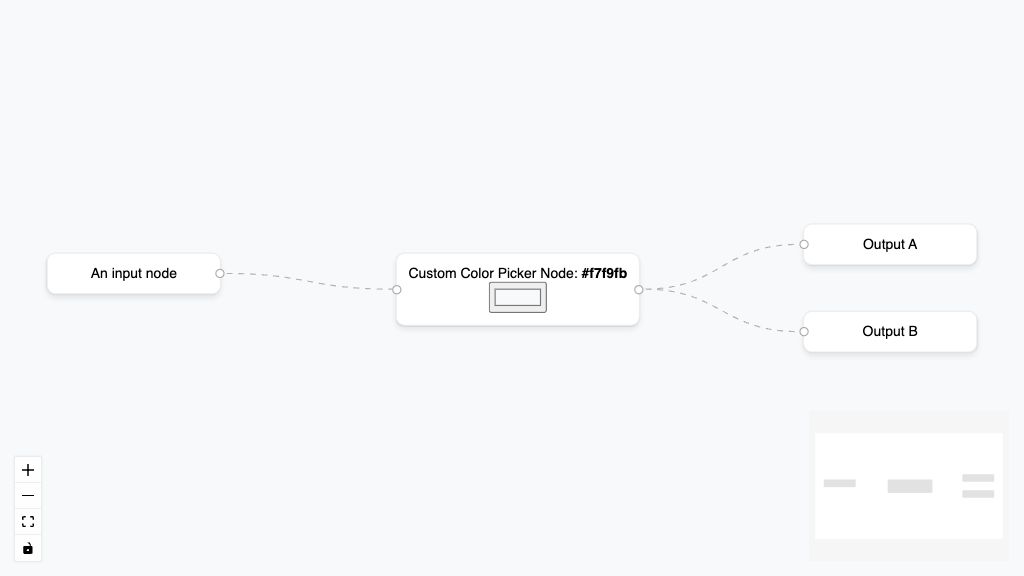
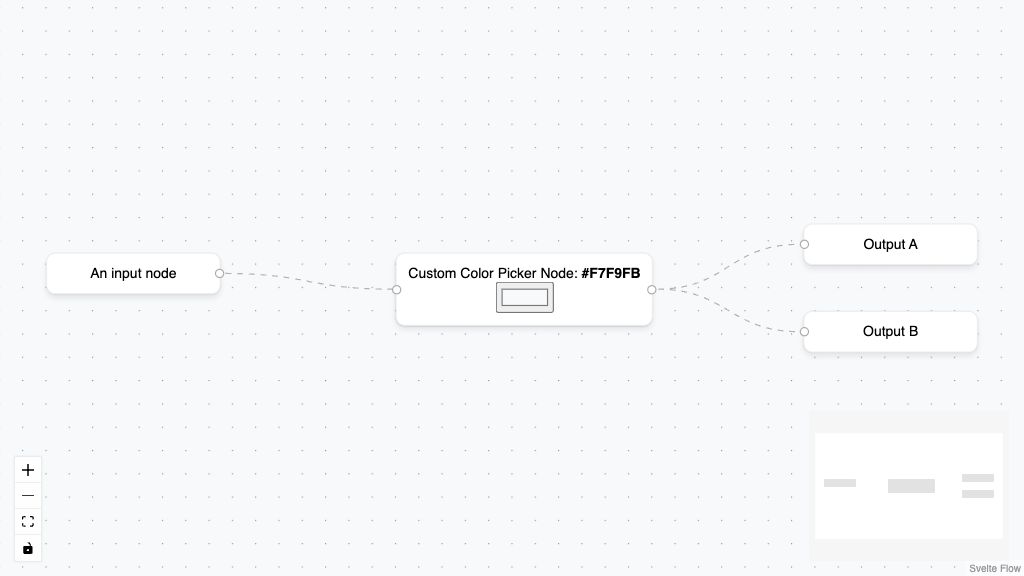
try to fix outdated images in the overview

diff --git a/sites/svelteflow.dev/src/components/examples-overview.tsx b/sites/svelteflow.dev/src/components/examples-overview.tsx
@@ -26,7 +26,7 @@ export const ExamplesOverview: FC = async () => {
           <div className="grid grid-cols-1 lg:grid-cols-3 gap-4">
             <Container className="col-span-2 aspect-video">
               <Image
-                src={`${process.env.NEXT_PUBLIC_EXAMPLES_URL}/svelte/examples/misc/feature-overview/preview.jpg`}
+                src={`${process.env.NEXT_PUBLIC_EXAMPLES_URL}/svelte/examples/misc/feature-overview/preview.jpg?v=1`}
                 width={1024}
                 height={768}
                 alt="Feature Overview Example Preview"
@@ -80,7 +80,7 @@ export const ExamplesOverview: FC = async () => {
                       className="border-none py-6 lg:py-8 lg:px-0 hover:bg-white group"
                     >
                       <ProjectPreview
-                        image={`${process.env.NEXT_PUBLIC_EXAMPLES_URL}/svelte${example.route}/preview.jpg`}
+                        image={`${process.env.NEXT_PUBLIC_EXAMPLES_URL}/svelte${example.route}/preview.jpg?v=1`}
                         title={
                           <div className="flex items-center">
                             {example.frontMatter.title}

diff --git a/apps/example-apps/svelte/examples/nodes/custom-node/App.svelte b/apps/example-apps/svelte/examples/nodes/custom-node/App.svelte
@@ -1,6 +1,6 @@
 <script module>
   class BgColor {
-    current = $state('#f7f9fb');
+    current = $state('#F7F9FB');
   }
   export const bgColor = new BgColor();
 </script>
@@ -13,6 +13,7 @@
     Position,
     type Node,
     type Edge,
+    Background,
   } from '@xyflow/svelte';
 
   import ColorSelectorNode from './ColorSelectorNode.svelte';
@@ -76,15 +77,12 @@
 
   let nodes = $state.raw<Node[]>(initialNodes);
   let edges = $state.raw<Edge[]>(initialEdges);
+
+  $inspect(bgColor.current);
 </script>
 
-<SvelteFlow
-  bind:nodes
-  bind:edges
-  {nodeTypes}
-  style="background: {bgColor.current};"
-  fitView
->
+<SvelteFlow bind:nodes bind:edges {nodeTypes} fitView>
+  <Background bgColor={bgColor.current} />
   <Controls />
   <MiniMap />
 </SvelteFlow>

diff --git a/apps/example-apps/svelte/examples/styling/tailwind/App.svelte b/apps/example-apps/svelte/examples/styling/tailwind/App.svelte
@@ -13,7 +13,7 @@
   };
 </script>
 
-<SvelteFlow bind:nodes {nodeTypes} bind:edges fitView class="bg-teal-50">
+<SvelteFlow bind:nodes {nodeTypes} bind:edges fitView class="bg-[#f7f9fB]">
   <MiniMap />
   <Controls />
 </SvelteFlow>
